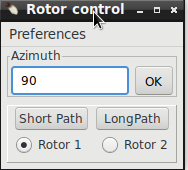
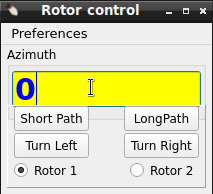
Additions and fixes TRX and ROT control
- Added option to set rig's frequency from TRXControl window by clicking Frequency display.
	  That will open TEdit column where frequency can be typed in as MHz value and then
	  confirmed with enter.
	  Other way to do this is to use mouse wheel while mouse cursor is over
	  frequency edit reading.
	  Then one wheel step is 100Hz. If Shift key is pressed at same time step is 1kHz.
	  If Crtl key is pressed at same time sep is 10KHz and With both Shift and Ctrl keys
	  pressed one mouse wheel step is 1MHz

	  Unlike typing and pressing enter, mouse wheel has immediate effect to rig
	  frequency. There is no need to confirm with enter. Just move mouse cursor
	  away from frequency display, or press any mouse button will close frequency edit

	- Changed same rules also for ROTcontrol manual azimuth input. There steps with mouse
	  wheel are 1 degrees, 10degrees with Shift key and 100degrees with Ctrl key.

	- Fixed Rotor control left/right buttons to turn with current speed (parameter "-1")
	  Previous setting was "1" the lowest speed. This has effect only with rotators that
	  have turning speed control.

	- Changed rig model "Hamlib Dummy" setting. Now Dummy forces "Run rigctld at program start".
	  Released also Dummy (#1) blockout from uRigcontrol.pas/InitializeRig. Having possibility
	  to use Hamlib Dummy can sometimes be handy when testing, or making qsos with rig
	  that does not have CAT control.

	- Fixed help files.

Squashed commit of the following:
[…]

diff --git a/help/h30.html b/help/h30.html
@@ -31,8 +31,9 @@
 <p align=center><img src=img/line.png></p>
 
 <h3 ><a name="m3"></a>TRX Control</h3>
-<img src="img/h117.png" name="7"  width="353" height="367">
-<img src="img/h118.png" name="8"  width="353" height="367">
+<img src="img/h117.png" name="7"  width="320" height="360">
+<img src="img/h118.png" name="8"  width="320" height="360">
+<img src="img/h118b.png" name="8"  width="320" height="360">
 </img>
 <p>
 TRX Control window Shows current frequency and buttons allow change of Band, mode, memory and rig. Additional selections are User defined buttons, Power buttons, Vfo A and B buttons and memory information field.
@@ -44,7 +45,11 @@ TRX Control window Shows current frequency and buttons allow change of Band, mod
 <br>With <b>P-on/off/stb</b> buttons current rig can be set ON, OFF or STANDBY (if it supports rigctld power commands).
 <br>Default setting for power buttons is hidden. You can change it via dropdown menu "Preferences".
 <br><br><b>M_up</b> and <b>M_dwn</b> buttons select next/previous entry from memory list. <b>M_Wri</b> adds entry to memory list from current rig frequency and mode and info field shows<b> "MW ok"</b>.
-<br>
+<br><br>You can change rig frequency by clicking frequency display. Then you can enter a new <b>MHz value</b> and press enter.
+<br>You can also use mouse wheel to change frequency. One wheel step is 100Hz, Keeping <b>Shift key</b> pressed the step is 1kHz. Keeping <b>Ctrl key</b> pressed the step is 10kHz.
+Keeping both keys pressed the step is 1MHz.
+<br>If you use mouse wheel the rig frequency is changed while turning. There is no need to press enter then. Just move mouse cursor away from frequency display.
+
 <br><br><b>NOTE!!!</b> <br>Check <b>pereferences/TRXcontrol/Switch only between mode related memories</b><br>Cqrlog TRXcontrol memories are categorized by mode (groups). CW, SSB(=AM+USB+LSB+FM), RTTY(=RTTY+DATA+PKTLSB+PKTUSB+PKTFM)[no mode selector for PKT*  but you may "M wri" them anyway]. 
 So do not wonder if you get smaller amount of memories than in your list when pressing <b>M_up</b> and <b>M_dwn</b> with "Show mode related" checked.
 <br><br>
@@ -78,7 +83,9 @@ Window shows current position of rotor with <b>numerical display, Short and Long
 <br><br> When a call is entered to <b>NewQSO</b> callsign field and cursor is moved away from that field <b>DXCC info</b> part gets filled against call prefix and/or locator grid,
  then, when <b>DXCC/AZIM</b> shows a value, it is possible to press <b>Short Path</b> or <b>Long Path buttons</b> and your ro
  tor will turn your antenna to that direction.
-<br><br>It is also possible to set new direction by a click of <b>Azimuth display</b>, enter new direction value and click <b>OK</b> or press <b>enter key</b>.
+<br><br>It is also possible to set new direction by a click on <b>Azimuth display</b>, type a new direction value and press <b>Enter</b> or use  <b>mouse wheel</b> to select degrees.
+<br>One wheel step is one degree. If you keep <b>Shift key</b> pressed while turning mouse wheel the step will be 10 degrees. If <b> Ctrl key</b> is pressed instead step will be 100 degrees.
+<br>If you have used mouse wheel it is enough to move mouse away from Azimuth reading to get rotor turning. No enter keypress is needed then.
 <br><br>Pressing <b>Stop button</b> stops rotor turning started either with path or turn buttons.</p>
 <p>Progress bar displays Az value relative to AzLimits (if Use \dump_state is checked in preferences) so do not wonder if it in some cases may look different than numerical true direction display. 
 <br>If error message is received from rotctld button area turns red. If requested turn command is ok, but az_min or az_maz limits change requested direction from true direction 

diff --git a/help/h1.html b/help/h1.html
@@ -236,6 +236,7 @@ After you have the DX Cluster window open and connected you may also open the Ba
     <br><strong>Extra command line arguments</strong> usefull when you have to specify more parameters to
     rigctld. E.g. CIV address (--civaddr=ID, where ID is the CIV address).<br><br>
     <strong>Run rigctld when program starts</strong> is usually checked but when rig model #2 <strong>Hamlib Net Rigctld</strong> is used then it is unchecked and disabled because with that rig setting we are trying to connect external rigctld. Either in same PC or in network.
+    <br>If rig model #1 <b>Hamlib Dummy</b> is selected <strong>Run rigctld when program starts</strong>  is forced to be checked. This allows testing and simulated operations without rig CAT control.
     <br><br><strong>Use \chkvfo</strong> is normally checked. Then cqrlog tries to find out is rigctld started with parameter "--vfo" because that changes rigctld command format. Uncheck of this disables this function. Use it in case of problems.
     <br><br><strong>Serial port parameters</strong> Use the manual of your rig, please choose the correct options.
     Very often it is much better to specify only serial speed and leave other options as default.
